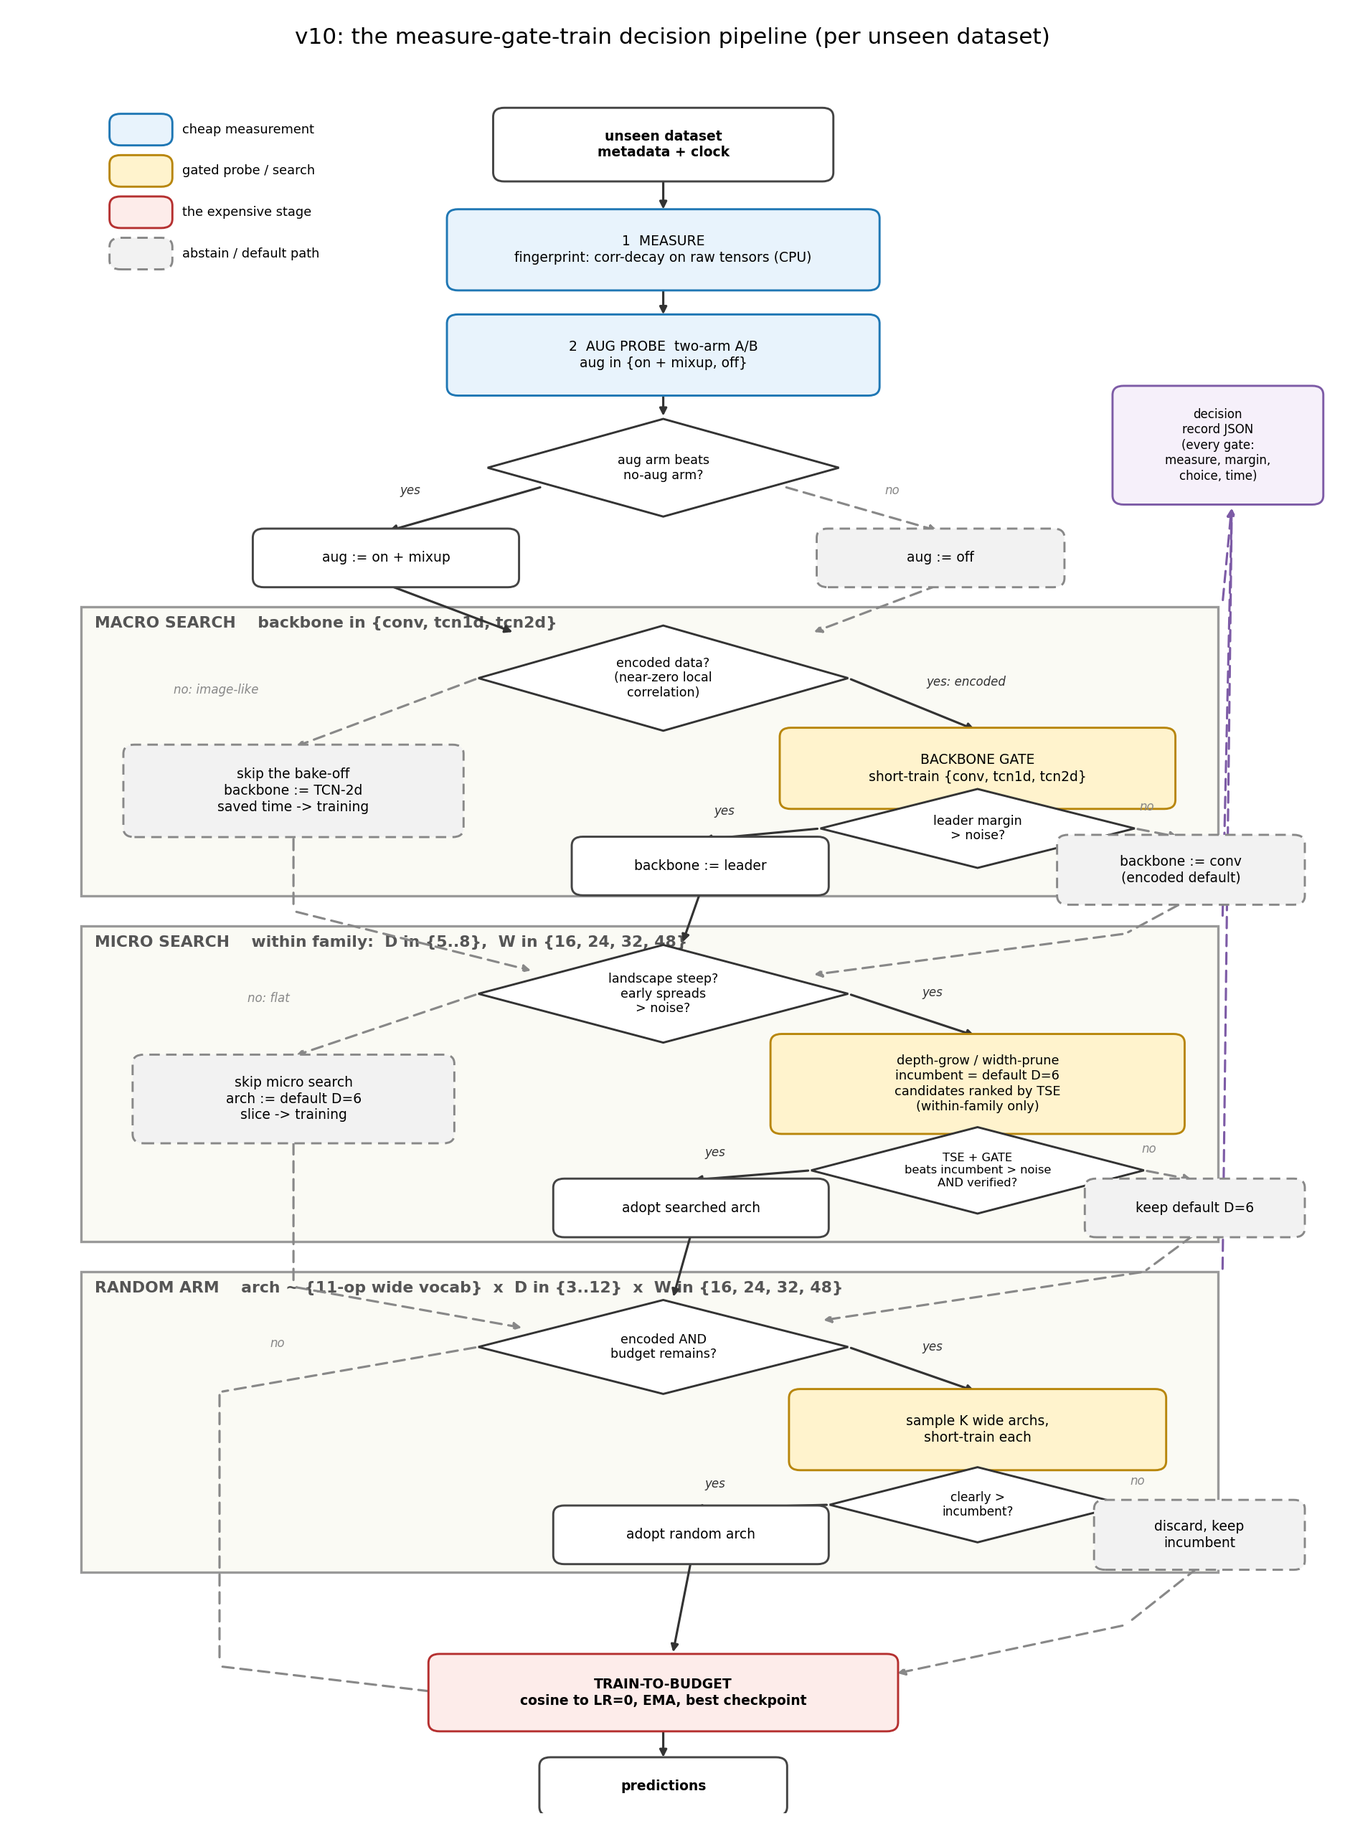
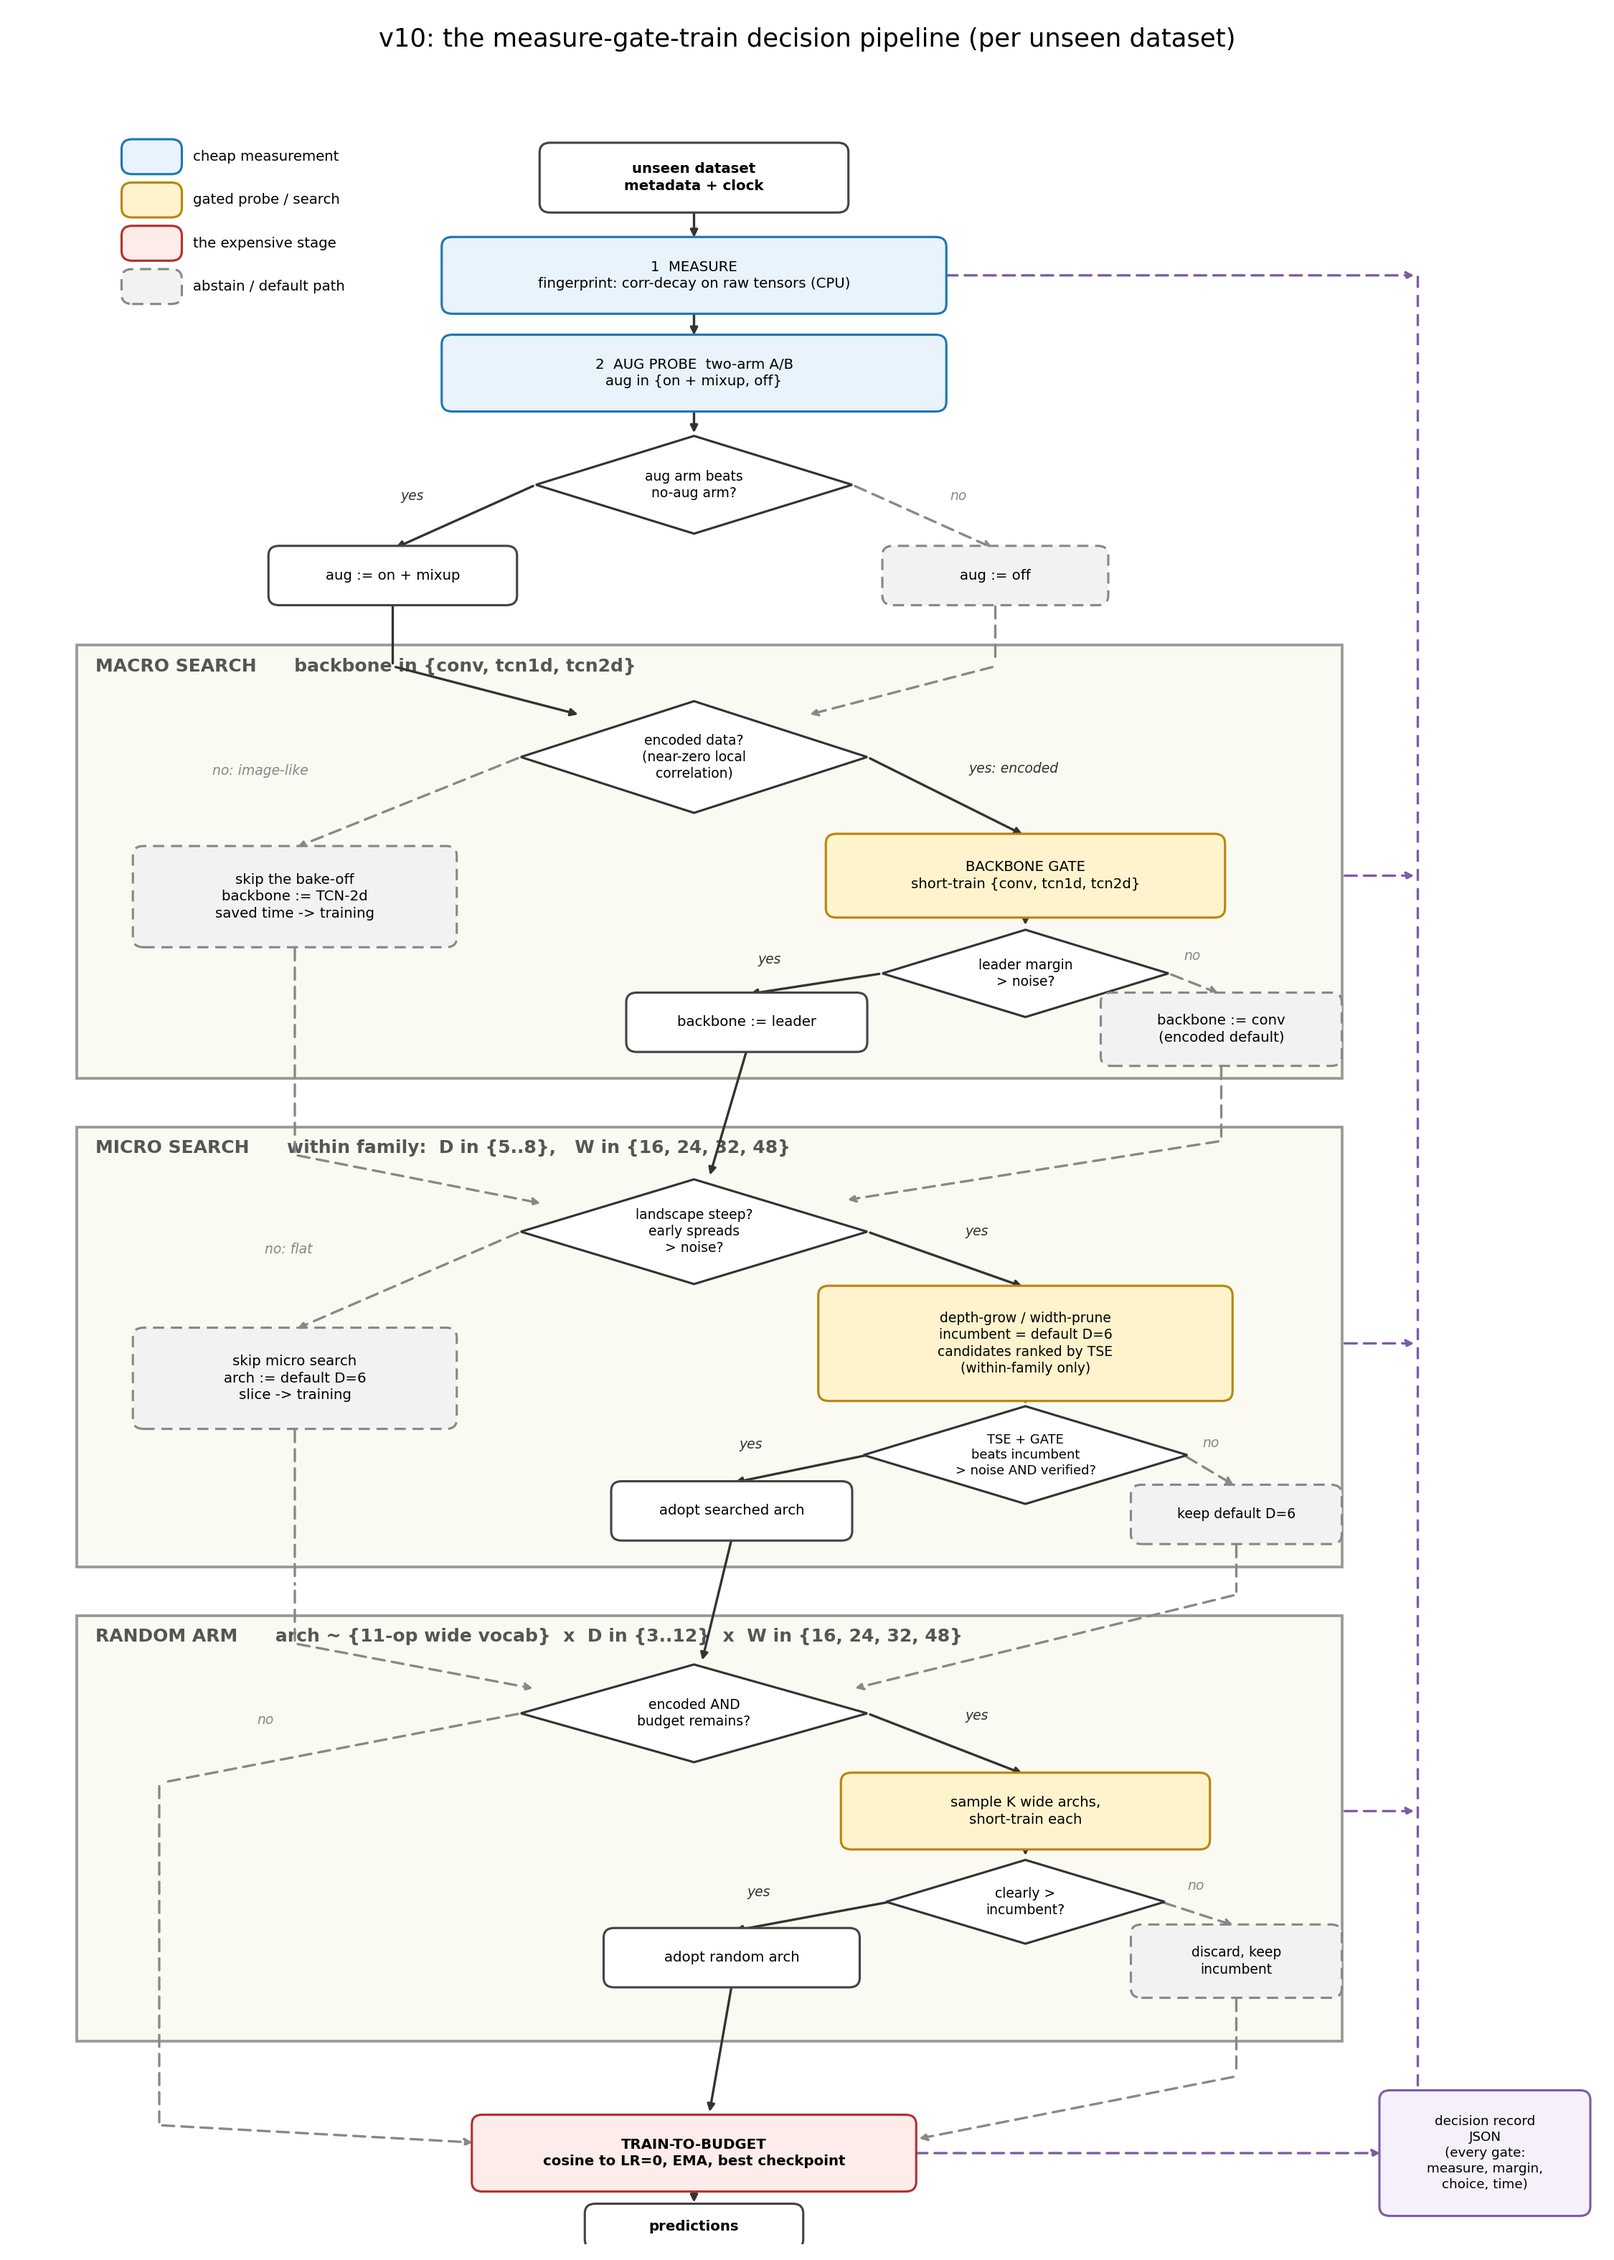
v10 pipeline figure: bigger canvas, overlap-free layout, decision-record rail outside containers

diff --git a/dev/plot_v10_pipeline.py b/dev/plot_v10_pipeline.py
@@ -6,6 +6,8 @@ Structure: vertical flow with three big container blocks (MACRO backbone
 search, MICRO within-family search, RANDOM ARM), every yes/no gate drawn as
 a diamond with both outcomes, dashed = abstain/default path, search spaces
 in {} notation. No evidence numbers (clean structural version).
+Layout uses a large canvas with generous spacing; the decision-record rail
+sits fully outside the containers to avoid any overlap.
 """
 from pathlib import Path
 
@@ -24,39 +26,39 @@ C_DEF = ("#f2f2f2", "#888888")    # abstain / default path
 C_ART = ("#f6f0fa", "#7d5ba6")    # artifact
 C_PLAIN = ("#ffffff", "#444444")
 
-fig, ax = plt.subplots(figsize=(12.5, 17))
-ax.set_xlim(0, 14.2)
-ax.set_ylim(-1.6, 21.2)
+fig, ax = plt.subplots(figsize=(15, 21))
+ax.set_xlim(0, 21)
+ax.set_ylim(0, 30.6)
 ax.axis("off")
 
 
-def box(cx, cy, w, h, text, colors=C_PLAIN, dashed=False, fs=9, bold=False):
+def box(cx, cy, w, h, text, colors=C_PLAIN, dashed=False, fs=9.5, bold=False):
     fc, ec = colors
     p = FancyBboxPatch((cx - w / 2, cy - h / 2), w, h,
-                       boxstyle="round,pad=0.04,rounding_size=0.12",
-                       facecolor=fc, edgecolor=ec, linewidth=1.4,
+                       boxstyle="round,pad=0.05,rounding_size=0.14",
+                       facecolor=fc, edgecolor=ec, linewidth=1.5,
                        linestyle=(0, (5, 3)) if dashed else "-", zorder=3)
     ax.add_patch(p)
     ax.text(cx, cy, text, ha="center", va="center", fontsize=fs, zorder=4,
-            fontweight="bold" if bold else "normal", linespacing=1.25)
+            fontweight="bold" if bold else "normal", linespacing=1.3)
 
 
-def diamond(cx, cy, w, h, text, fs=8.4):
+def diamond(cx, cy, w, h, text, fs=9):
     pts = [(cx, cy + h / 2), (cx + w / 2, cy), (cx, cy - h / 2), (cx - w / 2, cy)]
     ax.add_patch(Polygon(pts, facecolor="#ffffff", edgecolor="#333333",
-                         linewidth=1.4, zorder=3))
+                         linewidth=1.5, zorder=3))
     ax.text(cx, cy, text, ha="center", va="center", fontsize=fs, zorder=4,
-            linespacing=1.2)
+            linespacing=1.25)
 
 
 def container(x0, y0, x1, y1, title):
-    ax.add_patch(Rectangle((x0, y0), x1 - x0, y1 - y0, facecolor="#fafaf4",
-                           edgecolor="#999999", linewidth=1.6, zorder=1))
-    ax.text(x0 + 0.15, y1 - 0.12, title, ha="left", va="top", fontsize=10.5,
+    ax.add_patch(Rectangle((x0, y0), x1 - x0, y1 - y0, facecolor="#fafaf2",
+                           edgecolor="#999999", linewidth=1.8, zorder=1))
+    ax.text(x0 + 0.25, y1 - 0.18, title, ha="left", va="top", fontsize=12,
             fontweight="bold", color="#555555", zorder=2)
 
 
-def arrow(pts, dashed=False, label=None, lab_dx=0.12, lab_dy=0.0, color=None):
+def arrow(pts, dashed=False, label=None, lab_dx=0.15, lab_dy=0.0, color=None):
     c = color or ("#888888" if dashed else "#333333")
     for i in range(len(pts) - 1):
         x0, y0 = pts[i]
@@ -64,107 +66,115 @@ def arrow(pts, dashed=False, label=None, lab_dx=0.12, lab_dy=0.0, color=None):
         last = i == len(pts) - 2
         ax.annotate("", xy=(x1, y1), xytext=(x0, y0), zorder=2,
                     arrowprops=dict(arrowstyle="-|>" if last else "-",
-                                    color=c, lw=1.5,
+                                    color=c, lw=1.6,
                                     linestyle=(0, (5, 3)) if dashed else "-"))
     if label:
         mx, my = pts[0]
         ex, ey = pts[1]
         ax.text((mx + ex) / 2 + lab_dx, (my + ey) / 2 + lab_dy, label,
-                fontsize=8, color=c, ha="left", va="center", zorder=4,
+                fontsize=9, color=c, ha="left", va="center", zorder=4,
                 style="italic")
 
 
-# ---- top flow -------------------------------------------------------------
-box(7, 20.6, 3.6, 0.9, "unseen dataset\nmetadata + clock", bold=True)
-box(7, 19.2, 4.6, 1.0, "1  MEASURE\nfingerprint: corr-decay on raw tensors (CPU)", C_MEAS)
-box(7, 17.8, 4.6, 1.0, "2  AUG PROBE  two-arm A/B\naug in {on + mixup, off}", C_MEAS)
-diamond(7, 16.3, 3.8, 1.3, "aug arm beats\nno-aug arm?")
-box(4.0, 15.1, 2.8, 0.7, "aug := on + mixup")
-box(10.0, 15.1, 2.6, 0.7, "aug := off", C_DEF, dashed=True)
+# ---- top flow (spine at x=9) ----------------------------------------------
+box(9, 29.6, 4.0, 0.9, "unseen dataset\nmetadata + clock", bold=True)
+box(9, 28.2, 6.6, 1.0, "1  MEASURE\nfingerprint: corr-decay on raw tensors (CPU)", C_MEAS)
+box(9, 26.8, 6.6, 1.0, "2  AUG PROBE  two-arm A/B\naug in {on + mixup, off}", C_MEAS)
+diamond(9, 25.2, 4.2, 1.4, "aug arm beats\nno-aug arm?")
+box(5.0, 23.9, 3.2, 0.75, "aug := on + mixup")
+box(13.0, 23.9, 2.9, 0.75, "aug := off", C_DEF, dashed=True)
 
-arrow([(7, 20.15), (7, 19.7)])
-arrow([(7, 18.7), (7, 18.3)])
-arrow([(7, 17.3), (7, 16.95)])
-arrow([(5.7, 16.05), (4.0, 15.45)], label="yes", lab_dx=-0.7, lab_dy=0.25)
-arrow([(8.3, 16.05), (10.0, 15.45)], dashed=True, label="no", lab_dx=0.25, lab_dy=0.25)
+arrow([(9, 29.15), (9, 28.7)])
+arrow([(9, 27.7), (9, 27.3)])
+arrow([(9, 26.3), (9, 25.9)])
+arrow([(6.9, 25.2), (5.0, 24.28)], label="yes", lab_dx=-0.85, lab_dy=0.3)
+arrow([(11.1, 25.2), (13.0, 24.28)], dashed=True, label="no", lab_dx=0.35, lab_dy=0.3)
 
-# ---- MACRO container ------------------------------------------------------
-container(0.7, 10.6, 13.0, 14.45, "MACRO SEARCH    backbone in {conv, tcn1d, tcn2d}")
-diamond(7, 13.5, 4.0, 1.4, "encoded data?\n(near-zero local\ncorrelation)")
-box(3.0, 12.0, 3.6, 1.15, "skip the bake-off\nbackbone := TCN-2d\nsaved time -> training", C_DEF, dashed=True)
-box(10.4, 12.3, 4.2, 1.0, "BACKBONE GATE\nshort-train {conv, tcn1d, tcn2d}", C_GATE)
-diamond(10.4, 11.5, 3.4, 1.05, "leader margin\n> noise?")
-box(7.4, 11.0, 2.7, 0.7, "backbone := leader")
-box(12.6, 10.95, 2.6, 0.85, "backbone := conv\n(encoded default)", C_DEF, dashed=True)
+# ---- MACRO container -------------------------------------------------------
+container(0.8, 16.7, 17.6, 22.9, "MACRO SEARCH      backbone in {conv, tcn1d, tcn2d}")
+diamond(9, 21.3, 4.6, 1.6, "encoded data?\n(near-zero local\ncorrelation)")
+box(3.7, 19.3, 4.2, 1.35, "skip the bake-off\nbackbone := TCN-2d\nsaved time -> training", C_DEF, dashed=True)
+box(13.4, 19.6, 5.2, 1.1, "BACKBONE GATE\nshort-train {conv, tcn1d, tcn2d}", C_GATE)
+diamond(13.4, 18.2, 3.8, 1.25, "leader margin\n> noise?")
+box(9.7, 17.5, 3.1, 0.75, "backbone := leader")
+box(16.0, 17.4, 3.1, 0.95, "backbone := conv\n(encoded default)", C_DEF, dashed=True)
 
-arrow([(4.0, 14.75), (5.4, 14.1)])           # aug-on chip -> DENC
-arrow([(10.0, 14.75), (8.6, 14.1)], dashed=True)  # aug-off chip -> DENC
-arrow([(5.0, 13.5), (3.0, 12.58)], dashed=True, label="no: image-like", lab_dx=-2.3, lab_dy=0.3)
-arrow([(9.0, 13.5), (10.4, 12.8)], label="yes: encoded", lab_dx=0.15, lab_dy=0.3)
-arrow([(10.4, 11.8), (10.4, 12.02)])  # gate -> dlead (short)
-arrow([(8.7, 11.5), (7.4, 11.35)], label="yes", lab_dx=-0.5, lab_dy=0.3)
-arrow([(12.1, 11.5), (12.6, 11.38)], dashed=True, label="no", lab_dx=-0.2, lab_dy=0.35)
+arrow([(5.0, 23.5), (5.0, 22.6), (7.5, 21.9)])                 # aug-on -> DENC
+arrow([(13.0, 23.5), (13.0, 22.6), (10.5, 21.9)], dashed=True)  # aug-off -> DENC
+arrow([(6.7, 21.3), (3.7, 20.0)], dashed=True, label="no: image-like",
+      lab_dx=-2.6, lab_dy=0.45)
+arrow([(11.3, 21.3), (13.4, 20.17)], label="yes: encoded", lab_dx=0.3, lab_dy=0.4)
+arrow([(13.4, 19.05), (13.4, 18.85)])
+arrow([(11.5, 18.2), (9.7, 17.9)], label="yes", lab_dx=-0.75, lab_dy=0.35)
+arrow([(15.3, 18.2), (16.0, 17.9)], dashed=True, label="no", lab_dx=-0.15, lab_dy=0.4)
 
-# ---- MICRO container ------------------------------------------------------
-container(0.7, 6.0, 13.0, 10.2, "MICRO SEARCH    within family:  D in {5..8},  W in {16, 24, 32, 48}")
-diamond(7, 9.3, 4.0, 1.3, "landscape steep?\nearly spreads\n> noise?")
-box(3.0, 7.9, 3.4, 1.1, "skip micro search\narch := default D=6\nslice -> training", C_DEF, dashed=True)
-box(10.4, 8.1, 4.4, 1.25, "depth-grow / width-prune\nincumbent = default D=6\ncandidates ranked by TSE\n(within-family only)", C_GATE, fs=8.5)
-diamond(10.4, 6.95, 3.6, 1.15, "TSE + GATE\nbeats incumbent > noise\nAND verified?", fs=7.8)
-box(7.3, 6.45, 2.9, 0.7, "adopt searched arch")
-box(12.75, 6.45, 2.3, 0.7, "keep default D=6", C_DEF, dashed=True)
+# ---- MICRO container -------------------------------------------------------
+container(0.8, 9.7, 17.6, 16.0, "MICRO SEARCH      within family:  D in {5..8},   W in {16, 24, 32, 48}")
+diamond(9, 14.5, 4.6, 1.5, "landscape steep?\nearly spreads\n> noise?")
+box(3.7, 12.4, 4.2, 1.35, "skip micro search\narch := default D=6\nslice -> training", C_DEF, dashed=True)
+box(13.4, 12.9, 5.4, 1.55, "depth-grow / width-prune\nincumbent = default D=6\ncandidates ranked by TSE\n(within-family only)", C_GATE, fs=9)
+diamond(13.4, 11.3, 4.3, 1.4, "TSE + GATE\nbeats incumbent\n> noise AND verified?", fs=8.6)
+box(9.5, 10.5, 3.1, 0.75, "adopt searched arch")
+box(16.2, 10.45, 2.7, 0.75, "keep default D=6", C_DEF, dashed=True, fs=9)
 
-arrow([(3.0, 11.4), (3.0, 10.4), (5.6, 9.6)], dashed=True)     # skip-bakeoff -> dsteep
-arrow([(7.4, 10.65), (7.2, 9.95)])                              # leader -> dsteep
-arrow([(12.6, 10.5), (12.0, 10.1), (8.6, 9.55)], dashed=True)  # conv-default -> dsteep
-arrow([(5.0, 9.3), (3.0, 8.47)], dashed=True, label="no: flat", lab_dx=-1.5, lab_dy=0.35)
-arrow([(9.0, 9.3), (10.4, 8.73)], label="yes", lab_dx=0.1, lab_dy=0.3)
-arrow([(10.4, 7.47), (10.4, 7.53)])
-arrow([(8.6, 6.95), (7.3, 6.82)], label="yes", lab_dx=-0.5, lab_dy=0.3)
-arrow([(12.2, 6.95), (12.75, 6.82)], dashed=True, label="no", lab_dx=-0.3, lab_dy=0.35)
+arrow([(3.7, 18.6), (3.7, 17.2), (3.7, 15.6), (7.0, 14.9)], dashed=True)
+arrow([(9.7, 17.1), (9.2, 15.27)])
+arrow([(16.0, 16.9), (16.0, 15.8), (11.0, 14.95)], dashed=True)
+arrow([(6.7, 14.5), (3.7, 13.1)], dashed=True, label="no: flat", lab_dx=-1.9, lab_dy=0.45)
+arrow([(11.3, 14.5), (13.4, 13.7)], label="yes", lab_dx=0.25, lab_dy=0.4)
+arrow([(13.4, 12.12), (13.4, 12.0)])
+arrow([(11.3, 11.3), (9.5, 10.9)], label="yes", lab_dx=-0.8, lab_dy=0.35)
+arrow([(15.5, 11.3), (16.2, 10.85)], dashed=True, label="no", lab_dx=-0.1, lab_dy=0.4)
 
-# ---- RANDOM ARM container -------------------------------------------------
-container(0.7, 1.6, 13.0, 5.6, "RANDOM ARM    arch ~ {11-op wide vocab}  x  D in {3..12}  x  W in {16, 24, 32, 48}")
-diamond(7, 4.6, 4.0, 1.25, "encoded AND\nbudget remains?")
-box(10.4, 3.5, 4.0, 1.0, "sample K wide archs,\nshort-train each", C_GATE)
-diamond(10.4, 2.5, 3.2, 1.0, "clearly >\nincumbent?", fs=8.2)
-box(7.3, 2.1, 2.9, 0.7, "adopt random arch")
-box(12.8, 2.1, 2.2, 0.85, "discard, keep\nincumbent", C_DEF, dashed=True)
+# ---- RANDOM ARM container ---------------------------------------------------
+container(0.8, 2.9, 17.6, 9.0, "RANDOM ARM      arch ~ {11-op wide vocab}  x  D in {3..12}  x  W in {16, 24, 32, 48}")
+diamond(9, 7.6, 4.6, 1.4, "encoded AND\nbudget remains?")
+box(13.4, 6.2, 4.8, 1.0, "sample K wide archs,\nshort-train each", C_GATE)
+diamond(13.4, 4.9, 3.7, 1.2, "clearly >\nincumbent?")
+box(9.5, 4.1, 3.3, 0.75, "adopt random arch")
+box(16.2, 4.05, 2.7, 0.95, "discard, keep\nincumbent", C_DEF, dashed=True, fs=9)
 
-arrow([(3.0, 7.35), (3.0, 5.4), (5.5, 4.85)], dashed=True)     # skip-micro -> drand
-arrow([(7.3, 6.1), (7.1, 5.23)])                                # adopt -> drand
-arrow([(12.75, 6.1), (12.2, 5.6), (8.7, 4.95)], dashed=True)   # keep-default -> drand
-arrow([(9.0, 4.6), (10.4, 4.0)], label="yes", lab_dx=0.1, lab_dy=0.3)
-arrow([(5.0, 4.6), (2.2, 4.0), (2.2, 0.35), (4.6, 0.0)], dashed=True,
-      label="no", lab_dx=-0.85, lab_dy=0.35)
-arrow([(8.8, 2.5), (7.3, 2.45)], label="yes", lab_dx=-0.6, lab_dy=0.3)
-arrow([(12.0, 2.5), (12.8, 2.53)], dashed=True, label="no", lab_dx=-0.35, lab_dy=0.3)
+arrow([(3.7, 11.7), (3.7, 9.4), (3.7, 8.6), (6.9, 7.95)], dashed=True)
+arrow([(9.5, 10.1), (9.1, 8.32)])
+arrow([(16.2, 10.05), (16.2, 9.3), (11.1, 7.95)], dashed=True)
+arrow([(11.3, 7.6), (13.4, 6.72)], label="yes", lab_dx=0.25, lab_dy=0.4)
+arrow([(6.7, 7.6), (1.9, 6.6), (1.9, 1.7), (6.1, 1.45)], dashed=True,
+      label="no", lab_dx=-1.1, lab_dy=0.4)
+arrow([(13.4, 5.7), (13.4, 5.52)])
+arrow([(11.6, 4.9), (9.5, 4.48)], label="yes", lab_dx=-0.85, lab_dy=0.35)
+arrow([(15.2, 4.9), (16.2, 4.55)], dashed=True, label="no", lab_dx=-0.15, lab_dy=0.4)
 
-# ---- bottom ---------------------------------------------------------------
-box(7, 0.0, 5.0, 0.95, "TRAIN-TO-BUDGET\ncosine to LR=0, EMA, best checkpoint", C_TRAIN, bold=True)
-box(7, -1.25, 2.6, 0.7, "predictions", bold=True)
-arrow([(7.3, 1.75), (7.1, 0.5)])
-arrow([(12.8, 1.68), (12.0, 0.9), (9.5, 0.25)], dashed=True)
-arrow([(7, -0.48), (7, -0.9)])
+# ---- bottom -----------------------------------------------------------------
+box(9, 1.3, 5.8, 1.0, "TRAIN-TO-BUDGET\ncosine to LR=0, EMA, best checkpoint", C_TRAIN, bold=True)
+box(9, 0.25, 2.8, 0.55, "predictions", bold=True)
+arrow([(9.5, 3.7), (9.2, 1.85)])
+arrow([(16.2, 3.55), (16.2, 2.4), (11.95, 1.5)], dashed=True)
+arrow([(9, 0.78), (9, 0.55)])
 
-# ---- decision record ------------------------------------------------------
-box(13.0, 16.6, 2.2, 1.5, "decision\nrecord JSON\n(every gate:\nmeasure, margin,\nchoice, time)", C_ART, fs=8)
-for y in (13.5, 9.3, 4.6):
-    arrow([(13.05, y + 1.0), (13.15, 15.8)], dashed=True, color=C_ART[1])
+# ---- decision record (rail fully OUTSIDE the containers) ---------------------
+RAILX = 18.6
+box(19.5, 1.3, 2.7, 1.7, "decision record\nJSON\n(every gate:\nmeasure, margin,\nchoice, time)", C_ART, fs=8.8)
+arrow([(12.3, 28.2), (RAILX, 28.2)], dashed=True, color=C_ART[1])     # measure stub
+arrow([(17.6, 19.6), (RAILX, 19.6)], dashed=True, color=C_ART[1])     # macro stub
+arrow([(17.6, 12.9), (RAILX, 12.9)], dashed=True, color=C_ART[1])     # micro stub
+arrow([(17.6, 6.2), (RAILX, 6.2)], dashed=True, color=C_ART[1])       # random stub
+arrow([(11.9, 1.3), (18.15, 1.3)], dashed=True, color=C_ART[1])       # train stub
+ax.plot([RAILX, RAILX], [28.2, 1.3], linestyle=(0, (5, 3)),
+        color=C_ART[1], lw=1.6, zorder=2)
 
-# legend
-lx, ly = 1.0, 20.8
+# ---- legend (top left, clear of everything) ----------------------------------
+lx, ly = 1.4, 29.9
 for dy, (colors, lab, dash) in enumerate([
         (C_MEAS, "cheap measurement", False),
         (C_GATE, "gated probe / search", False),
         (C_TRAIN, "the expensive stage", False),
         (C_DEF, "abstain / default path", True)]):
-    box(lx + 0.35, ly - dy * 0.55, 0.6, 0.34, "", colors, dashed=dash)
-    ax.text(lx + 0.8, ly - dy * 0.55, lab, fontsize=8.5, va="center")
+    box(lx + 0.4, ly - dy * 0.62, 0.7, 0.4, "", colors, dashed=dash)
+    ax.text(lx + 0.95, ly - dy * 0.62, lab, fontsize=9.5, va="center")
 
 fig.suptitle("v10: the measure-gate-train decision pipeline (per unseen dataset)",
-             fontsize=15, y=0.985)
-fig.tight_layout(rect=[0, 0, 1, 0.975])
+             fontsize=17, y=0.988)
+fig.tight_layout(rect=[0, 0, 1, 0.978])
 OUT.parent.mkdir(parents=True, exist_ok=True)
 fig.savefig(OUT, dpi=150)
 print(f"wrote {OUT}")
